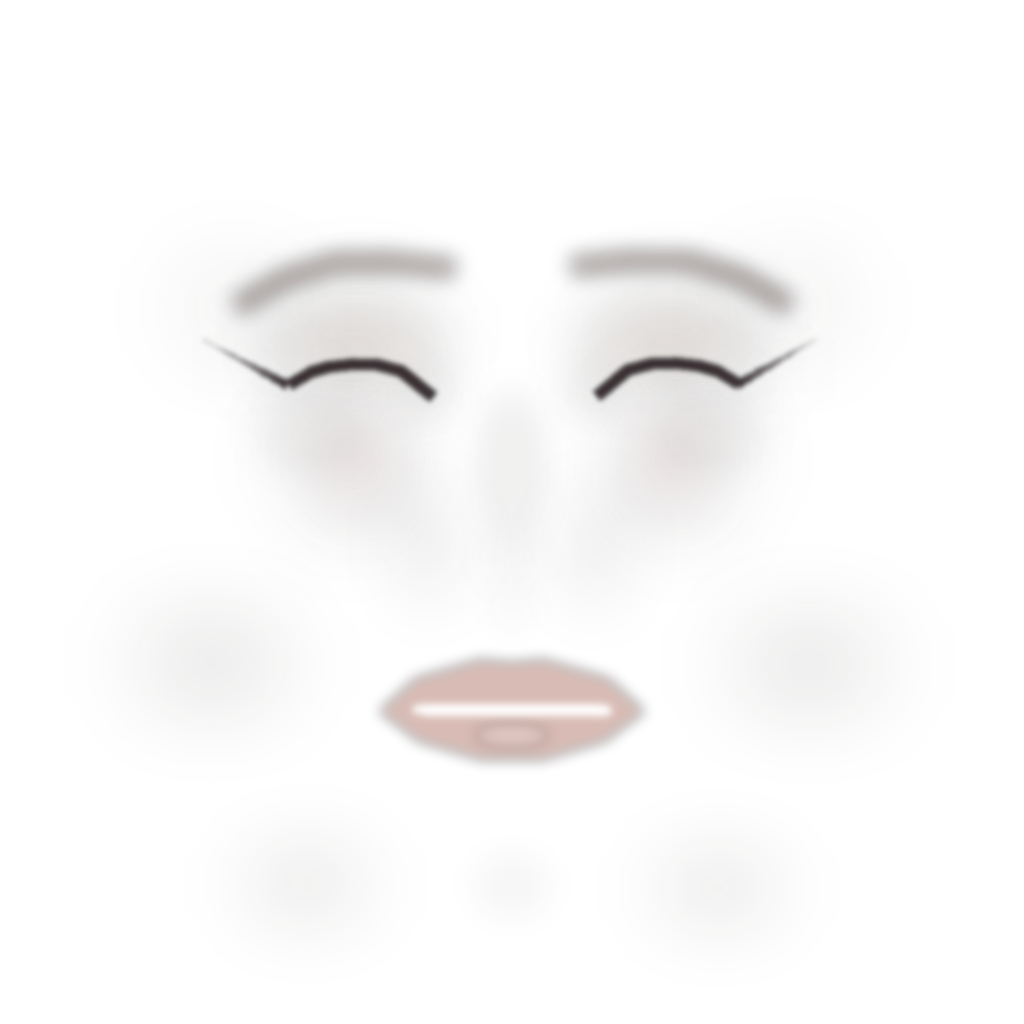
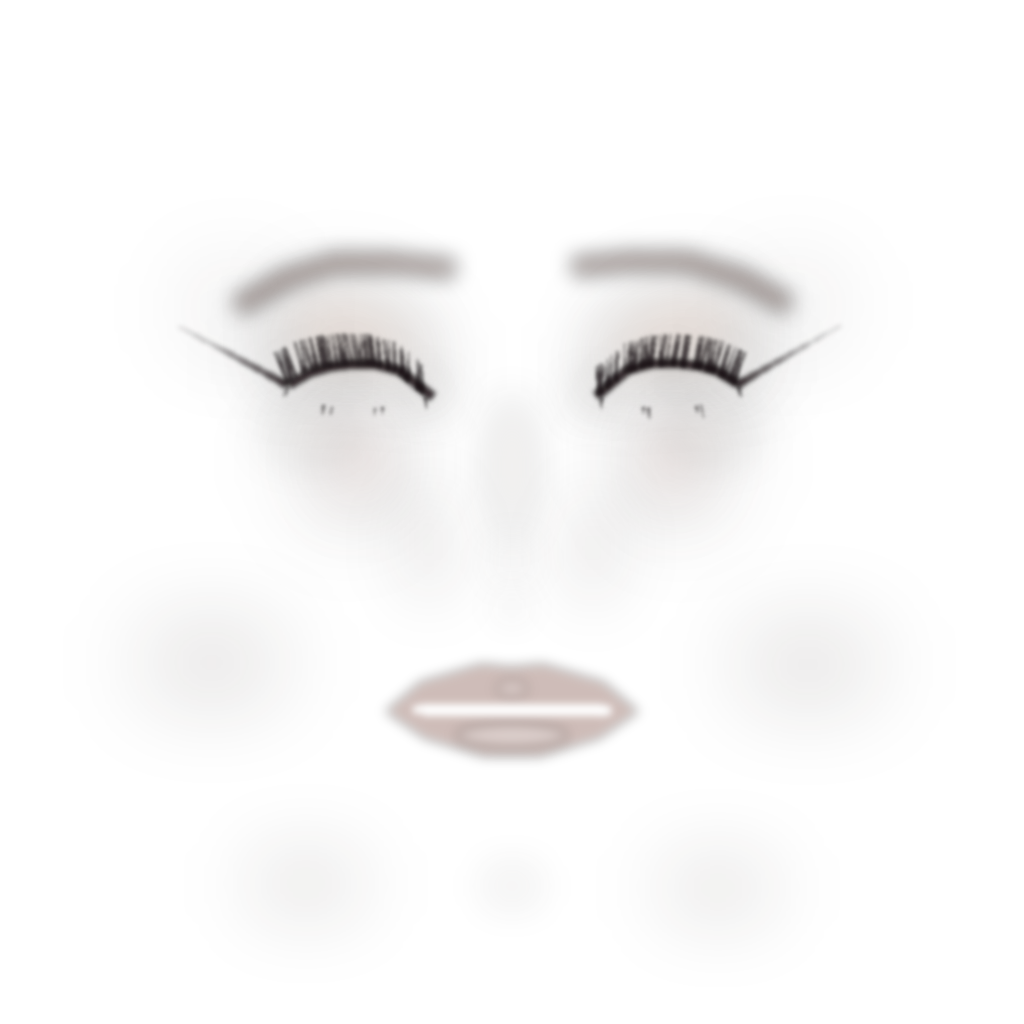
Enrich Makeup ARKit hero plates with lashes and layered eyes.
ARKit zeros procedural lash/liner, so the atlas must carry them; also thicken lid/crease washes and retune the nine hero recipes.

diff --git a/tools/gen_makeup_elements.py b/tools/gen_makeup_elements.py
@@ -121,13 +121,32 @@ def _eye_sets(kind):
     return [(LID_L, -1), (LID_R, +1)]
 
 def _draw_eye_line(d, lid, color, alpha, width, raise_amt, blur, offset):
+    """Filled lid/crease wash: a soft band from the lash line upward.
+
+    Line strokes read as flat decals; a tapered polygon band with denser
+    outer pigment matches real eyeshadow packing much more closely.
+    """
     l = layer()
     dl = ImageDraw.Draw(l)
     for lidpts, sign in lid:
         ox, oy = offset()
-        pts = [(P(i)[0] + ox, P(i)[1] - ed * raise_amt + oy) for i in lidpts]
-        w = max(1, int(ed * width))
-        dl.line(pts, fill=_clamp(color) + (alpha,), width=w, joint='curve')
+        base = [(P(i)[0] + ox, P(i)[1] + oy) for i in lidpts]
+        n = len(base)
+        upper = []
+        for i, (x, y) in enumerate(base):
+            t = i / max(1, n - 1)
+            # outer corner taller; inner corner feathered shorter
+            lift = raise_amt + width * (0.55 + 0.70 * (1.0 - t))
+            # slight outer flare toward the temple
+            flare = sign * ed * width * 0.18 * (1.0 - t)
+            upper.append((x + flare, y - ed * lift))
+        # denser core strip hugging the lash line, then a sheerer wash above
+        core = []
+        for i, (x, y) in enumerate(base):
+            t = i / max(1, n - 1)
+            core.append((x, y - ed * (raise_amt * 0.35 + width * 0.22 * (1.0 - 0.4 * t))))
+        dl.polygon(base + upper[::-1], fill=_clamp(color) + (max(0, int(alpha * 0.55)),))
+        dl.polygon(base + core[::-1], fill=_clamp(color) + (alpha,))
     return l.filter(ImageFilter.GaussianBlur(ed * blur))
 
 def _draw_outer_v(d, lid, color, alpha, extent, raise_amt, blur, offset):
@@ -137,10 +156,16 @@ def _draw_outer_v(d, lid, color, alpha, extent, raise_amt, blur, offset):
         ox, oy = offset()
         outer = P(lidpts[0])
         p1 = P(lidpts[1])
+        p2 = P(lidpts[min(2, len(lidpts) - 1)])
         tip = (outer[0] + sign * ed * extent + ox, outer[1] - ed * raise_amt + oy)
+        mid = (outer[0] + sign * ed * extent * 0.45 + ox,
+               outer[1] - ed * (raise_amt + 0.06) + oy)
         o = (outer[0] + ox, outer[1] + oy)
         p1 = (p1[0] + ox, p1[1] + oy)
+        p2 = (p2[0] + ox, p2[1] + oy)
+        # layered outer-V: deep tip + softer body into the crease
         dl.polygon([tip, o, p1], fill=_clamp(color) + (alpha,))
+        dl.polygon([mid, o, p2], fill=_clamp(_lighten(color, (255, 255, 255), 0.12)) + (int(alpha * 0.65),))
     return l.filter(ImageFilter.GaussianBlur(ed * blur))
 
 def _side_offset(rng, mx=0.015, my=0.008):
@@ -343,7 +368,7 @@ def el_freckles(img, density=1.0, color=(150, 92, 66), alpha=110, seed=0):
 
 LIP_FINISH = {
     'satin':        {'blur': 0.018, 'base_alpha': 1.0, 'base_scale': 1.0,   'liner_scale': 1.03, 'liner_alpha': 0.55, 'center': 'satin',   'center_color': (255, 250, 245), 'center_alpha': 0.40, 'center_scale': (0.12, 0.04), 'upper': False},
-    'gloss':        {'blur': 0.018, 'base_alpha': 1.0, 'base_scale': 1.0,   'liner_scale': 1.03, 'liner_alpha': 0.60, 'center': 'gloss',   'center_color': (255, 255, 255), 'center_alpha': 0.55, 'center_scale': (0.18, 0.04), 'upper': True},
+    'gloss':        {'blur': 0.016, 'base_alpha': 0.95, 'base_scale': 1.0,   'liner_scale': 1.03, 'liner_alpha': 0.55, 'center': 'gloss',   'center_color': (255, 255, 255), 'center_alpha': 0.72, 'center_scale': (0.20, 0.035), 'upper': True},
     'matte':        {'blur': 0.024, 'base_alpha': 1.0, 'base_scale': 1.0,   'liner_scale': 1.03, 'liner_alpha': 0.65, 'center': 'none',    'center_color': None,           'center_alpha': 0.0,  'center_scale': (0.0, 0.0),    'upper': False},
     'full':         {'blur': 0.020, 'base_alpha': 1.0, 'base_scale': 1.0,   'liner_scale': 1.03, 'liner_alpha': 0.55, 'center': 'satin',   'center_color': (255, 250, 245), 'center_alpha': 0.30, 'center_scale': (0.10, 0.04), 'upper': False},
     'velvet':       {'blur': 0.026, 'base_alpha': 1.0, 'base_scale': 1.0,   'liner_scale': 1.03, 'liner_alpha': 0.65, 'center': 'dark',    'center_color': None,           'center_alpha': 0.55, 'center_scale': (0.12, 0.04), 'upper': False},
@@ -602,34 +627,61 @@ def S(lid, crease=None, outer=None, inner=None, shimmer=None, lower=None):
 # ── the LOOKS table — 32 retuned + 20 new ──────────────────────────────────
 
 LOOKS = {
+    # Makeup ARKit heroes — richer pigment, explicit lashes (ARKit zeros
+    # procedural lash/liner/blush; the atlas must carry them).
+    'douyin': [
+        ('blush', dict(style='band', color=(255, 118, 138), alpha=52)),
+        ('aegyo', dict(alpha=18)),
+        ('shadow', S(lid=((210, 125, 135), 58), crease=((190, 100, 115), 42),
+                     outer=((175, 85, 100), 36), inner=((255, 240, 245), 42),
+                     shimmer=((255, 245, 250), 28))),
+        ('liner', dict(style='wing', alpha=220)),
+        ('lashes', dict(strength=0.85, style='doll')),
+        ('lashes', dict(strength=0.35, style='wispy', lower=True)),
+        ('brow', dict(color=(70, 48, 42), alpha=88, width=0.055, density=0.55)),
+        ('lip', dict(style='bitten', color=(175, 40, 65), alpha=105)),
+        ('highlight', dict(style='glass', color=(255, 245, 248), alpha=48)),
+    ],
     'doll_pink': [
-        ('contour', dict(style='soft', alpha=30, areas=['cheek', 'jaw'])),
-        ('blush', dict(style='cheeks', color=(255, 120, 160), alpha=50)),
-        ('aegyo', dict(alpha=20)),
-        ('shadow', S(lid=((235, 130, 160), 55), crease=((220, 100, 135), 45), outer=((200, 80, 120), 40), inner=((255, 240, 245), 45), shimmer=((255, 245, 250), 30))),
-        ('liner', dict(style='wing', alpha=200)),
-        ('brow', dict(color=(75, 45, 40), alpha=95, width=0.065)),
-        ('lip', dict(style='gloss', color=(235, 70, 120), alpha=95)),
-        ('highlight', dict(style='pearl', color=(255, 245, 245), alpha=50)),
+        ('contour', dict(style='soft', alpha=28, areas=['cheek', 'jaw'])),
+        ('blush', dict(style='cheeks', color=(255, 125, 165), alpha=48)),
+        ('aegyo', dict(alpha=18)),
+        ('shadow', S(lid=((240, 145, 175), 62), crease=((225, 110, 145), 52),
+                     outer=((205, 85, 130), 46), inner=((255, 245, 250), 48),
+                     shimmer=((255, 248, 252), 36))),
+        ('liner', dict(style='wing', alpha=205)),
+        ('lashes', dict(strength=1.05, style='doll')),
+        ('lashes', dict(strength=0.4, style='wispy', lower=True)),
+        ('brow', dict(color=(75, 45, 40), alpha=92, width=0.062, density=0.55)),
+        ('lip', dict(style='gloss', color=(235, 75, 125), alpha=100)),
+        ('highlight', dict(style='pearl', color=(255, 245, 248), alpha=52)),
     ],
     'egirl': [
-        ('blush', dict(style='band', color=(255, 96, 110), alpha=60)),
-        ('freckles', dict(density=1.4, color=(160, 90, 70), alpha=100)),
-        ('shadow', S(lid=((235, 130, 150), 45), crease=((220, 95, 125), 40), outer=((200, 70, 100), 38), inner=((255, 240, 245), 40))),
-        ('liner', dict(style='wing', alpha=210)),
+        ('blush', dict(style='band', color=(255, 96, 110), alpha=58)),
+        ('freckles', dict(density=1.55, color=(155, 88, 68), alpha=105)),
+        ('shadow', S(lid=((235, 135, 155), 52), crease=((220, 95, 125), 46),
+                     outer=((200, 70, 105), 44), inner=((255, 240, 245), 42))),
+        ('liner', dict(style='wing', alpha=220)),
+        ('lashes', dict(strength=0.9, style='doll')),
+        ('lashes', dict(strength=0.35, style='wispy', lower=True)),
         ('aegyo', dict(alpha=12)),
-        ('lip', dict(style='gloss', color=(220, 85, 105), alpha=90)),
+        ('lip', dict(style='gloss', color=(220, 85, 105), alpha=95)),
         ('highlight', dict(style='satin', color=(255, 250, 245), alpha=40)),
     ],
     'glam_contour': [
-        ('contour', dict(style='warm', alpha=45)),
-        ('blush', dict(style='lifted', color=(225, 160, 145), alpha=42)),
-        ('shadow', S(lid=((195, 145, 115), 55), crease=((165, 115, 85), 45), outer=((145, 95, 70), 40), inner=((235, 215, 195), 35), shimmer=((255, 245, 235), 25))),
-        ('liner', dict(style='wing', alpha=215)),
-        ('brow', dict(color=(70, 45, 38), alpha=110, width=0.070)),
-        ('lip', dict(style='overline', color=(172, 110, 96), alpha=120)),
-        ('highlight', dict(style='satin', color=(255, 245, 235), alpha=55)),
-        ('aegyo', dict(alpha=15)),
+        ('contour', dict(style='warm', alpha=48)),
+        ('blush', dict(style='lifted', color=(225, 155, 140), alpha=40)),
+        ('shadow', S(lid=((200, 150, 120), 62), crease=((165, 112, 82), 52),
+                     outer=((140, 90, 65), 48), inner=((240, 220, 200), 40),
+                     shimmer=((255, 245, 235), 32))),
+        ('liner', dict(style='siren', alpha=220)),
+        ('lashes', dict(strength=0.95, style='stage')),
+        ('lashes', dict(strength=0.3, style='wispy', lower=True)),
+        ('brow', dict(color=(68, 42, 35), alpha=115, width=0.072, density=0.75)),
+        ('lip', dict(style='lined_gloss', color=(172, 110, 96), alpha=115,
+                     liner_color=(120, 70, 58))),
+        ('highlight', dict(style='satin', color=(255, 245, 235), alpha=58)),
+        ('aegyo', dict(alpha=12)),
     ],
     'coquette': [
         ('blush', dict(style='cheeks', color=(255, 140, 160), alpha=48)),
@@ -707,21 +759,27 @@ LOOKS = {
         ('highlight', dict(style='satin', color=(255, 250, 245), alpha=45)),
     ],
     'clean_girl': [
-        ('blush', dict(style='lifted', color=(255, 170, 165), alpha=38)),
-        ('brow', dict(color=(75, 55, 50), alpha=85, width=0.055, density=0.5)),
-        ('shadow', S(lid=((210, 190, 180), 35))),
-        ('liner', dict(style='tightline', alpha=150)),
-        ('lip', dict(style='balm', color=(225, 140, 135), alpha=70)),
-        ('highlight', dict(style='satin', color=(255, 250, 245), alpha=45)),
+        ('blush', dict(style='lifted', color=(255, 170, 165), alpha=34)),
+        ('brow', dict(color=(75, 55, 50), alpha=82, width=0.052, density=0.55)),
+        ('shadow', S(lid=((215, 195, 185), 32), crease=((195, 175, 165), 22),
+                     inner=((245, 235, 225), 28))),
+        ('liner', dict(style='tightline', alpha=155)),
+        ('lashes', dict(strength=0.45, style='wispy')),
+        ('lip', dict(style='satin_balm', color=(225, 145, 140), alpha=68)),
+        ('highlight', dict(style='glass', color=(255, 250, 245), alpha=48)),
     ],
     'soft_glam_nude': [
-        ('contour', dict(style='soft', alpha=40)),
-        ('blush', dict(style='lifted', color=(215, 165, 150), alpha=42)),
-        ('shadow', S(lid=((185, 155, 135), 55), crease=((160, 130, 110), 45), outer=((140, 110, 90), 38), inner=((230, 215, 200), 35), shimmer=((255, 245, 235), 25))),
-        ('liner', dict(style='soft', alpha=180)),
-        ('brow', dict(color=(75, 55, 50), alpha=100, width=0.065)),
-        ('lip', dict(style='gloss', color=(190, 120, 105), alpha=90)),
-        ('highlight', dict(style='satin', color=(255, 245, 235), alpha=50)),
+        ('contour', dict(style='soft', alpha=42)),
+        ('blush', dict(style='lifted', color=(215, 165, 150), alpha=40)),
+        ('shadow', S(lid=((190, 160, 140), 60), crease=((160, 130, 110), 50),
+                     outer=((140, 108, 88), 42), inner=((235, 220, 205), 40),
+                     shimmer=((255, 248, 238), 30))),
+        ('liner', dict(style='soft', alpha=185)),
+        ('lashes', dict(strength=0.75, style='wispy')),
+        ('lashes', dict(strength=0.25, style='wispy', lower=True)),
+        ('brow', dict(color=(75, 55, 50), alpha=100, width=0.065, density=0.65)),
+        ('lip', dict(style='gloss', color=(195, 125, 110), alpha=95)),
+        ('highlight', dict(style='satin', color=(255, 245, 235), alpha=52)),
     ],
     'bronze_sculpt': [
         ('contour', dict(style='warm', alpha=50)),
@@ -775,22 +833,30 @@ LOOKS = {
         ('brow', dict(color=(75, 50, 55), alpha=85, width=0.060)),
     ],
     'cherry_gloss': [
-        ('contour', dict(style='soft', alpha=35, areas=['cheek'])),
-        ('blush', dict(style='lifted', color=(235, 100, 105), alpha=48)),
-        ('shadow', S(lid=((215, 90, 95), 55), crease=((190, 70, 75), 45), outer=((160, 50, 55), 40), inner=((255, 230, 230), 40), shimmer=((255, 240, 240), 30))),
-        ('liner', dict(style='wing', alpha=210)),
-        ('brow', dict(color=(70, 45, 45), alpha=95, width=0.065)),
-        ('lip', dict(style='gloss', color=(225, 55, 70), alpha=100)),
-        ('highlight', dict(style='satin', color=(255, 240, 235), alpha=50)),
+        ('contour', dict(style='soft', alpha=32, areas=['cheek'])),
+        ('blush', dict(style='lifted', color=(235, 100, 105), alpha=44)),
+        ('shadow', S(lid=((220, 95, 100), 58), crease=((195, 70, 78), 48),
+                     outer=((165, 50, 58), 44), inner=((255, 232, 232), 42),
+                     shimmer=((255, 245, 245), 34))),
+        ('liner', dict(style='wing', alpha=215)),
+        ('lashes', dict(strength=0.85, style='cat')),
+        ('lashes', dict(strength=0.28, style='wispy', lower=True)),
+        ('brow', dict(color=(70, 45, 45), alpha=95, width=0.065, density=0.6)),
+        ('lip', dict(style='gloss', color=(230, 50, 68), alpha=115)),
+        ('highlight', dict(style='glass', color=(255, 240, 235), alpha=52)),
     ],
     'terracotta_smoke': [
-        ('contour', dict(style='warm', alpha=45)),
-        ('blush', dict(style='sunkissed', color=(235, 130, 90), alpha=48)),
-        ('shadow', S(lid=((205, 95, 60), 68), crease=((175, 75, 45), 58), outer=((145, 55, 30), 50), inner=((255, 225, 205), 40), shimmer=((255, 235, 210), 30))),
-        ('liner', dict(style='smudged', alpha=200)),
-        ('lip', dict(style='satin', color=(205, 110, 85), alpha=100)),
-        ('highlight', dict(style='satin', color=(255, 230, 195), alpha=50)),
-        ('brow', dict(color=(70, 50, 40), alpha=100, width=0.070)),
+        ('contour', dict(style='warm', alpha=48)),
+        ('blush', dict(style='sunkissed', color=(235, 130, 90), alpha=46)),
+        ('shadow', S(lid=((210, 100, 65), 78), crease=((175, 75, 45), 68),
+                     outer=((145, 55, 30), 58), lower=((160, 90, 65), 32),
+                     inner=((255, 225, 205), 42), shimmer=((255, 235, 210), 34))),
+        ('liner', dict(style='smudged', alpha=205)),
+        ('lashes', dict(strength=0.8, style='cat')),
+        ('lashes', dict(strength=0.35, style='wispy', lower=True)),
+        ('lip', dict(style='satin', color=(205, 110, 85), alpha=105)),
+        ('highlight', dict(style='satin', color=(255, 230, 195), alpha=52)),
+        ('brow', dict(color=(70, 50, 40), alpha=105, width=0.072, density=0.7)),
     ],
     'emerald_smoke': [
         ('contour', dict(style='soft', alpha=35, areas=['cheek', 'nose'])),
@@ -865,13 +931,17 @@ LOOKS = {
         ('highlight', dict(style='satin', color=(220, 215, 215), alpha=35)),
     ],
     'midnight_goth': [
-        ('contour', dict(style='cool', alpha=50)),
-        ('blush', dict(style='cheeks', color=(130, 65, 80), alpha=35)),
-        ('shadow', S(lid=((35, 25, 40), 100), crease=((25, 15, 28), 90), outer=((15, 8, 18), 80), inner=((140, 120, 145), 30), shimmer=((180, 160, 175), 25))),
-        ('liner', dict(style='graphic', alpha=240)),
-        ('brow', dict(color=(55, 40, 50), alpha=100, width=0.080)),
-        ('lip', dict(style='satin', color=(75, 15, 35), alpha=140)),
-        ('highlight', dict(style='pearl', color=(200, 185, 195), alpha=40)),
+        ('contour', dict(style='cool', alpha=52)),
+        ('blush', dict(style='cheeks', color=(130, 65, 80), alpha=32)),
+        ('shadow', S(lid=((40, 28, 48), 110), crease=((25, 15, 30), 98),
+                     outer=((12, 6, 16), 88), lower=((50, 35, 55), 40),
+                     inner=((145, 125, 150), 32), shimmer=((185, 165, 180), 28))),
+        ('liner', dict(style='graphic', alpha=245)),
+        ('lashes', dict(strength=1.1, style='stage')),
+        ('lashes', dict(strength=0.45, style='wispy', lower=True)),
+        ('brow', dict(color=(50, 35, 45), alpha=110, width=0.082, density=0.8)),
+        ('lip', dict(style='velvet', color=(80, 18, 40), alpha=145)),
+        ('highlight', dict(style='pearl', color=(200, 185, 195), alpha=38)),
     ],
     'opal_fantasy': [
         ('blush', dict(style='lifted', color=(215, 180, 210), alpha=38)),
@@ -1272,9 +1342,19 @@ EL = {'blush': el_blush, 'shadow': el_shadow, 'aegyo': el_aegyo,
       'contour': el_contour}
 
 def main():
+    import argparse
+    ap = argparse.ArgumentParser()
+    ap.add_argument('--only', nargs='*', default=None,
+                    help='Regenerate only these look ids (default: all)')
+    args = ap.parse_args()
     os.makedirs(OUT, exist_ok=True)
     os.makedirs(PMS_IOS_OUT, exist_ok=True)
-    for look_id, recipe in LOOKS.items():
+    selected = args.only or list(LOOKS.keys())
+    missing = [k for k in selected if k not in LOOKS]
+    if missing:
+        raise SystemExit(f'unknown look ids: {missing}')
+    for look_id in selected:
+        recipe = LOOKS[look_id]
         img = Image.new('RGBA', (SZ, SZ), (0, 0, 0, 0))
         for name, kw in recipe:
             kw = dict(kw)
@@ -1284,7 +1364,7 @@ def main():
         img.save(path, optimize=True)
         shutil.copy2(path, PMS_IOS_OUT)
         print(f'  wrote {os.path.relpath(path, os.path.join(HERE, ".."))} ({os.path.getsize(path)//1024} KB)')
-    print(f'done — {len(LOOKS)} look textures')
+    print(f'done — {len(selected)} look textures')
 
 if __name__ == '__main__':
     main()

diff --git a/tools/gen_arkit_makeup.py b/tools/gen_arkit_makeup.py
@@ -516,6 +516,8 @@ def main():
     ap = argparse.ArgumentParser()
     ap.add_argument("--assets", default=os.path.expanduser(
         "~/dev/pms-ios/Engine/EngineAssets"))
+    ap.add_argument("--only", nargs="*", default=None,
+                    help="Warp only these makeup_<id>.png basenames (or ids)")
     args = ap.parse_args()
     face_dir = os.path.join(args.assets, "models", "face")
     out_dir = os.path.join(face_dir, "arkit")
@@ -580,6 +582,17 @@ def main():
 
     plates = sorted(f for f in os.listdir(face_dir)
                     if f.startswith("makeup_") and f.endswith(".png"))
+    if args.only:
+        want = set()
+        for x in args.only:
+            x = x.strip()
+            if not x.endswith(".png"):
+                x = f"makeup_{x}.png" if not x.startswith("makeup_") else f"{x}.png"
+            want.add(x)
+        plates = [f for f in plates if f in want]
+        missing = want - set(plates)
+        if missing:
+            raise SystemExit(f"missing plates: {sorted(missing)}")
     for f in plates:
         img = Image.open(os.path.join(face_dir, f)).convert("RGBA")
         arr = np.asarray(img.resize((SIZE, SIZE)), np.uint8).astype(np.float32)
@@ -589,8 +602,13 @@ def main():
         oarr = np.asarray(out, np.uint8).astype(np.float32)
         oarr[..., 3] *= out_mask
         Image.fromarray(oarr.astype(np.uint8)).save(os.path.join(out_dir, f))
+        print(f"  warped {f}")
     print(f"{len(plates)} plates warped (brow erased, wings limited, "
           f"corner spill cut)")
+
+    if args.only:
+        print("skipping builtin looks (--only)")
+        return
 
     # builtin looks
     looks = parse_looks(os.path.join(here, "..", "src", "face_filters.cpp"))
